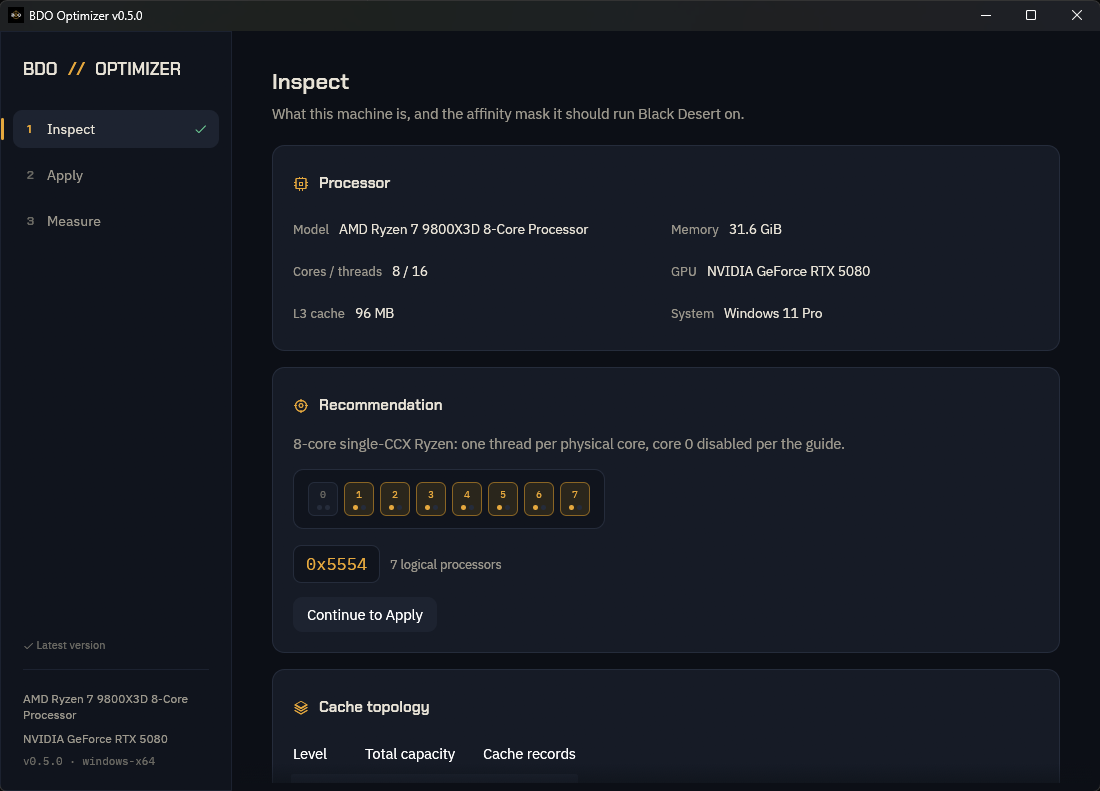
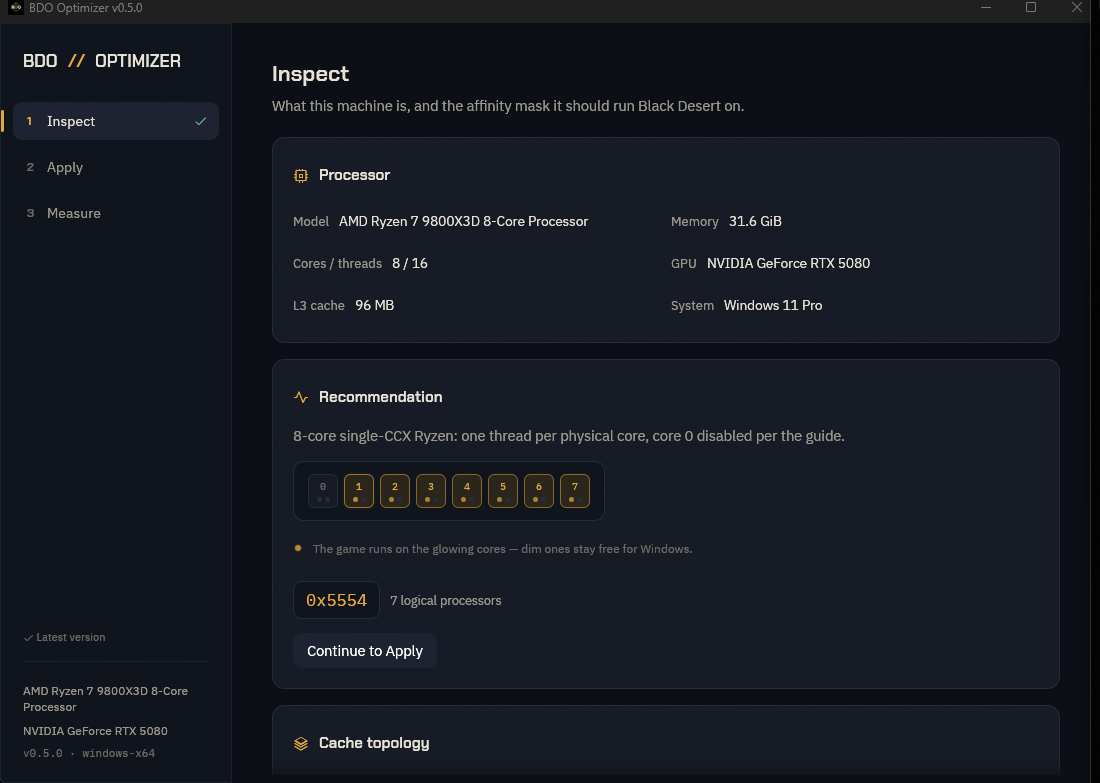
fix: hand cursor on hover, animated core-map activity pulse
interact_cursor gives every clickable a pointing-hand cursor. Lit core
chips now breathe a phase-shifted gold glow that sweeps across the map,
with a one-line legend, so it reads as live activity; the Recommendation
card icon is now the activity pulse.

diff --git a/crates/app/src/theme.rs b/crates/app/src/theme.rs
@@ -116,6 +116,9 @@ pub fn apply(ctx: &egui::Context) {
     v.hyperlink_color = ACCENT;
     v.warn_fg_color = WARN;
     v.error_fg_color = ERR;
+    // Hand cursor on every hoverable widget (buttons, nav rows, links) —
+    // without this egui leaves the arrow cursor and buttons feel dead.
+    v.interact_cursor = Some(egui::CursorIcon::PointingHand);
     v.widgets.noninteractive.corner_radius = CornerRadius::same(9);
     v.widgets.inactive.corner_radius = CornerRadius::same(9);
     v.widgets.hovered.corner_radius = CornerRadius::same(9);
@@ -240,6 +243,13 @@ pub fn core_map(ui: &mut egui::Ui, cpu: &bdo_hw::CpuInfo, lit: &[usize]) {
         vec![(String::new(), false, cores.iter().collect())]
     };
 
+    // Keep repainting while any core is lit so the activity pulse animates.
+    // core_map only runs while it is on screen, so this costs nothing elsewhere.
+    if !lit.is_empty() {
+        ui.ctx()
+            .request_repaint_after(std::time::Duration::from_millis(50));
+    }
+
     ui.horizontal_wrapped(|ui| {
         for (label, vcache, members) in &groups {
             egui::Frame::new()
@@ -269,17 +279,59 @@ pub fn core_map(ui: &mut egui::Ui, cpu: &bdo_hw::CpuInfo, lit: &[usize]) {
                 });
         }
     });
+
+    if !lit.is_empty() {
+        ui.add_space(2.0);
+        ui.horizontal(|ui| {
+            let (dot, _) = ui.allocate_exact_size(egui::vec2(10.0, 14.0), egui::Sense::hover());
+            let pulse = pulse_at(ui, 0);
+            ui.painter().circle_filled(
+                dot.center(),
+                2.5 + 1.0 * pulse,
+                lerp_color(ACCENT_DIM, ACCENT, pulse),
+            );
+            ui.label(
+                RichText::new("The game runs on the glowing cores — dim ones stay free for Windows.")
+                    .small()
+                    .color(INK_3),
+            );
+        });
+    }
+}
+
+/// 0..1 activity pulse, phase-shifted per core so the glow sweeps across the map.
+fn pulse_at(ui: &egui::Ui, index: usize) -> f32 {
+    let t = ui.input(|i| i.time);
+    (((t * 2.2 - index as f64 * 0.45).sin() * 0.5 + 0.5) as f32).powi(2)
+}
+
+fn lerp_color(a: Color32, b: Color32, t: f32) -> Color32 {
+    let l = |a: u8, b: u8| (a as f32 + (b as f32 - a as f32) * t) as u8;
+    Color32::from_rgb(l(a.r(), b.r()), l(a.g(), b.g()), l(a.b(), b.b()))
 }
 
 fn chip(ui: &mut egui::Ui, index: usize, threads: &[usize], lit: &[usize]) {
     let on = threads.iter().any(|t| lit.contains(t));
     let (rect, _) = ui.allocate_exact_size(egui::vec2(30.0, 34.0), egui::Sense::hover());
+    let pulse = pulse_at(ui, index);
     let painter = ui.painter();
     let (fill, border, ink) = if on {
-        (Color32::from_rgb(0x2A, 0x26, 0x1C), ACCENT_DIM, ACCENT)
+        (
+            Color32::from_rgb(0x2A, 0x26, 0x1C),
+            lerp_color(ACCENT_DIM, ACCENT, pulse),
+            ACCENT,
+        )
     } else {
         (CARD, STROKE, INK_3)
     };
+    if on {
+        // Soft glow halo behind the chip, breathing with the pulse.
+        painter.rect_filled(
+            rect.expand(2.0),
+            CornerRadius::same(8),
+            Color32::from_rgba_unmultiplied(ACCENT.r(), ACCENT.g(), ACCENT.b(), (26.0 * pulse) as u8),
+        );
+    }
     painter.rect(
         rect,
         CornerRadius::same(6),
@@ -294,7 +346,7 @@ fn chip(ui: &mut egui::Ui, index: usize, threads: &[usize], lit: &[usize]) {
         FontId::new(10.0, FontFamily::Monospace),
         ink,
     );
-    // One dot per hardware thread, lit individually.
+    // One dot per hardware thread, lit individually; lit dots carry the pulse.
     let n = threads.len().max(1) as f32;
     let dot = 5.0;
     let gap = 3.0;
@@ -306,7 +358,11 @@ fn chip(ui: &mut egui::Ui, index: usize, threads: &[usize], lit: &[usize]) {
         painter.rect_filled(
             dot_rect,
             CornerRadius::same(2),
-            if lit.contains(t) { ACCENT } else { STROKE },
+            if lit.contains(t) {
+                lerp_color(ACCENT_DIM, ACCENT, 0.4 + 0.6 * pulse)
+            } else {
+                STROKE
+            },
         );
         x += dot + gap;
     }

diff --git a/crates/app/src/hardware.rs b/crates/app/src/hardware.rs
@@ -205,7 +205,7 @@ impl App {
         };
         let recommendation = &det.recommendation;
         let mut continue_to_apply = false;
-        section_card(ui, icons::CROSSHAIR, "Recommendation", |ui| {
+        section_card(ui, icons::PULSE, "Recommendation", |ui| {
             ui.label(RichText::new(&recommendation.explanation).color(theme::INK_2));
             match recommendation.topology_confirmed {
                 Some(true) => {
